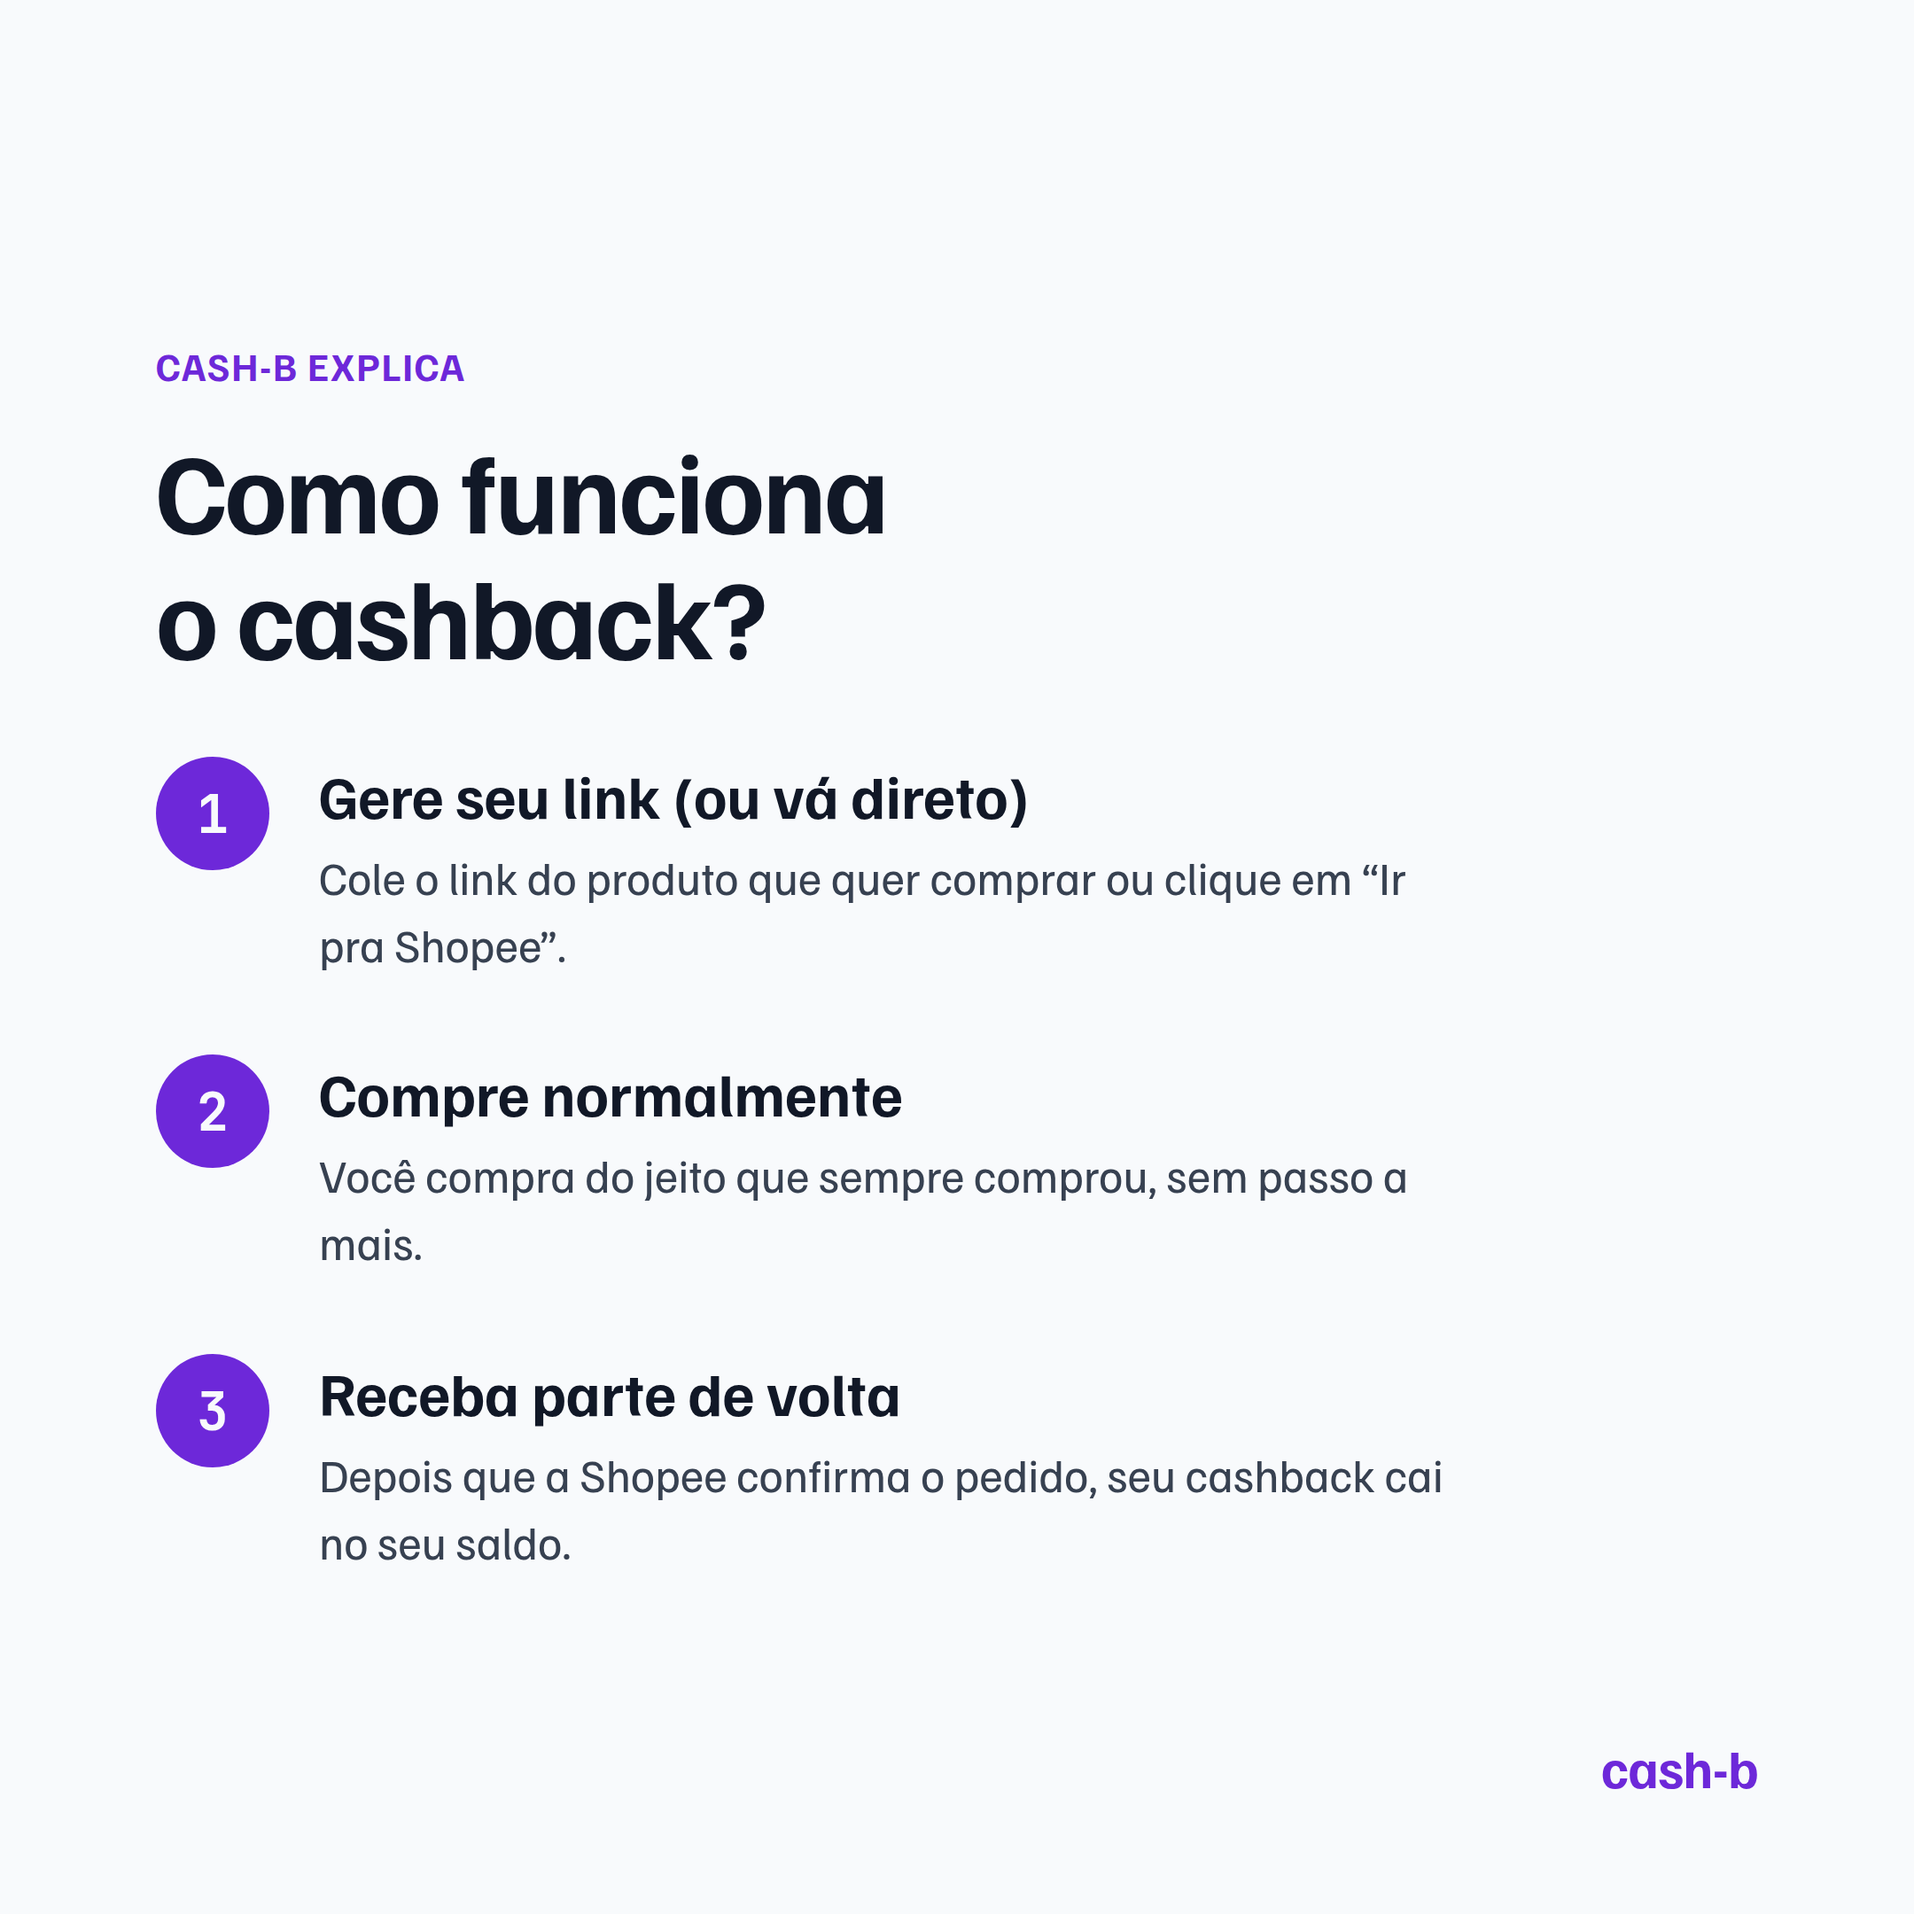
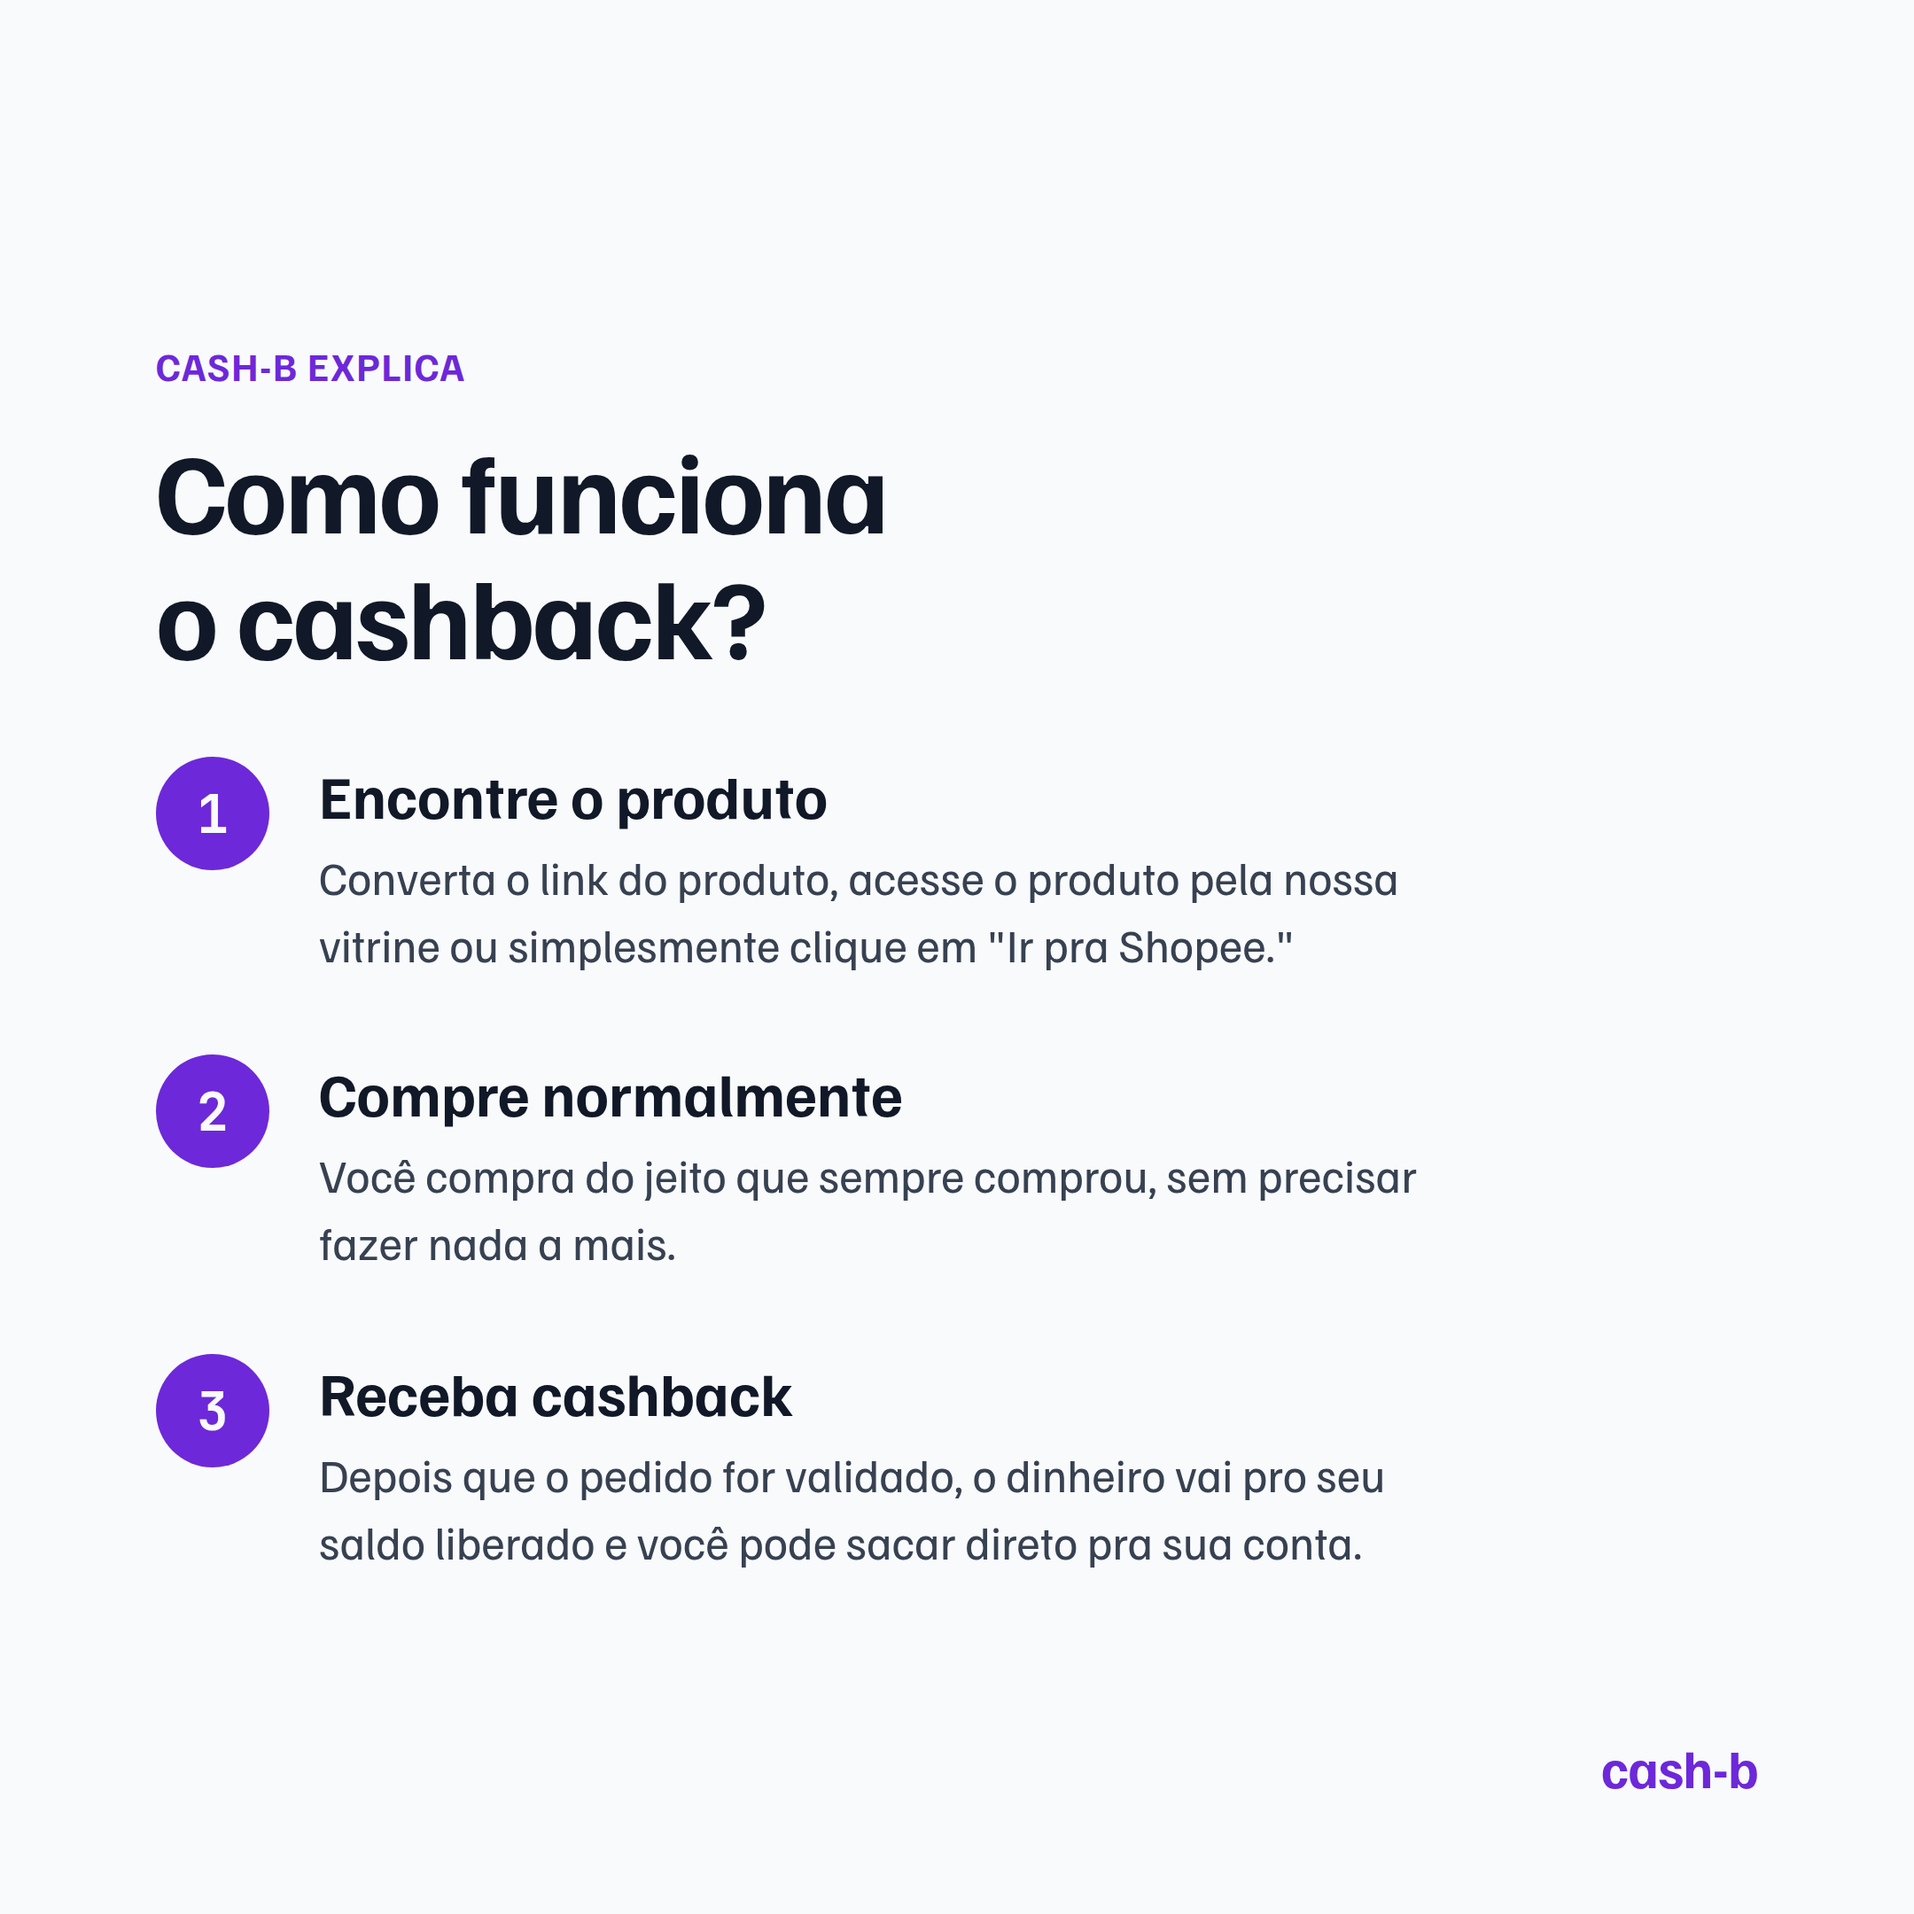
Ajusta os 3 passos do post 02 de semeadura
1) "Gere seu link (ou vá direto)" -> "Encontre o produto", texto
   citando as 3 formas de entrada (converter link, vitrine, "Ir pra
   Shopee").
2) Texto do passo 2 reforça que não precisa fazer nada a mais.
3) "Receba parte de volta" -> "Receba cashback", texto detalhando
   validação -> saldo liberado -> saque.

Claude-Session: https://claude.ai/code/session_017WZWLEiMQvHUst5KUYseHY

diff --git a/marketing/instagram/gerar_posts_semeadura.py b/marketing/instagram/gerar_posts_semeadura.py
@@ -95,9 +95,9 @@ render("steps", f"""
 <div class="canvas" style="background:{COLORS['paper']}; color:{COLORS['ink']}; justify-content:center;">
     <div class="eyebrow" style="color:{COLORS['brand']};">cash-b explica</div>
     <div class="headline">Como funciona<br>o cashback?</div>
-    {step_row('1', 'Gere seu link (ou vá direto)', 'Cole o link do produto que quer comprar ou clique em “Ir pra Shopee”.')}
-    {step_row("2", "Compre normalmente", "Você compra do jeito que sempre comprou, sem passo a mais.")}
-    {step_row("3", "Receba parte de volta", "Depois que a Shopee confirma o pedido, seu cashback cai no seu saldo.")}
+    {step_row('1', 'Encontre o produto', 'Converta o link do produto, acesse o produto pela nossa vitrine ou simplesmente clique em "Ir pra Shopee."')}
+    {step_row("2", "Compre normalmente", "Você compra do jeito que sempre comprou, sem precisar fazer nada a mais.")}
+    {step_row("3", "Receba cashback", "Depois que o pedido for validado, o dinheiro vai pro seu saldo liberado e você pode sacar direto pra sua conta.")}
     <div class="badge" style="color:{COLORS['brand']};">cash-b</div>
 </div>
 """, "02-como-funciona.png")
